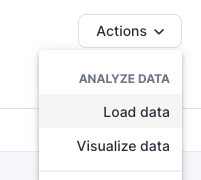
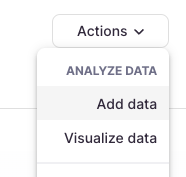
Adds new screenshots and corrects steps.

diff --git a/docs/en/integrations/data-ingestion/upload-file-to-clickhouse-cloud.md b/docs/en/integrations/data-ingestion/upload-file-to-clickhouse-cloud.md
@@ -14,17 +14,24 @@ of rows to infer the data types of the columns, then insert the rows into a new 
 
 2. Select **Load data** from the **Actions** dropdown menu:
 
-![File upload](./images/uploadcsv2.png)
+![Add data](./images/uploadcsv2.png)
 
-3. Click the **File upload** button in the **Load data** dialog window that appears. Enter your database user credentials, drag-and-drop (or click the **+** to browse for) your file into the **File upload** section, then click the **Upload file** button:
-
-![Select the file to upload](./images/uploadcsv3.png)
-
-5. ClickHouse shows you the data types that it inferred. ***Enter a new table name*** to insert the data into, then click the **Create table** button.
+3. Click the **File upload** button on the **DataSources** page and select the file you want to upload in the dialog window that appears. Click **Open** to proceed:
 
 <div class="eighty-percent">
 
-![Select the file to upload](./images/uploadcsv4.png)
+![Select the file to upload](./images/uploadcsv3.png)
+</div>
+
+4. ClickHouse shows you the data types that it inferred. 
+
+![Inferred data types](./images/uploadcsv4.png)
+
+5. ***Enter a new table name*** to insert the data into, then click the **Import to ClickHouse** button.
+
+<div class="eighty-percent">
+
+![Select the file to upload](./images/uploadcsv5.png)
 </div>
 
 6. Connect to your ClickHouse service, verify the table was created successfully, and your data is ready to go! If you want to visualize your data, check out some of the [BI tools](../data-visualization.md) that can easily connect to ClickHouse.
